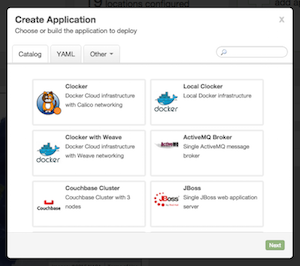
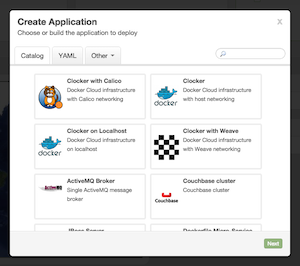
Updated clocker.sh script instructions

diff --git a/index.html b/index.html
@@ -62,14 +62,15 @@ and container naming schemes.</p>
 <h3><a name="using-the-latest-clocker-release" class="anchor" href="#using-the-latest-clocker-release"><span class="octicon octicon-link"></span></a>Using the latest Clocker release</h3>
 
 <p>The current version of Clocker is <b><a href="https://github.com/brooklyncentral/clocker/releases/tag/v0.8.1">0.8.1</a></b>.
-You can deploy your own <b>Docker Cloud</b> with a Weave SDN by running these commands, to use Project Calico as your SDN
-provider, change the last command to <code>./bin/calico.sh</code> instead:
+You can deploy your own <b>Docker Cloud</b> with a Weave SDN by running these commands with the
+<code>&lt;network&gt;</code> argument set to <code>weave</code>, to use Project Calico as your SDN
+provider, change the argument to <code>calico</code> instead:
 
 <pre><code>% wget --no-check-certificate --quiet \
     -O brooklyn-clocker-dist.tar.gz http://git.io/vfCE8
 % tar zxf brooklyn-clocker-dist.tar.gz
 % cd brooklyn-clocker
-% ./bin/clocker.sh &lt;location&gt;
+% ./bin/clocker.sh &lt;location&gt; &lt;network&gt;
 </code></pre>
 
 <p>Where <code>&lt;location&gt;</code> can be a jclouds
@@ -156,7 +157,7 @@ services:
 % mvn clean install
 ...
 % cd examples/target/brooklyn-clocker-dist/brooklyn-clocker
-% ./bin/clocker.sh &lt;location&gt;
+% ./bin/clocker.sh &lt;location&gt; &lt;network&gt;
 ...
 </code></pre>
 
